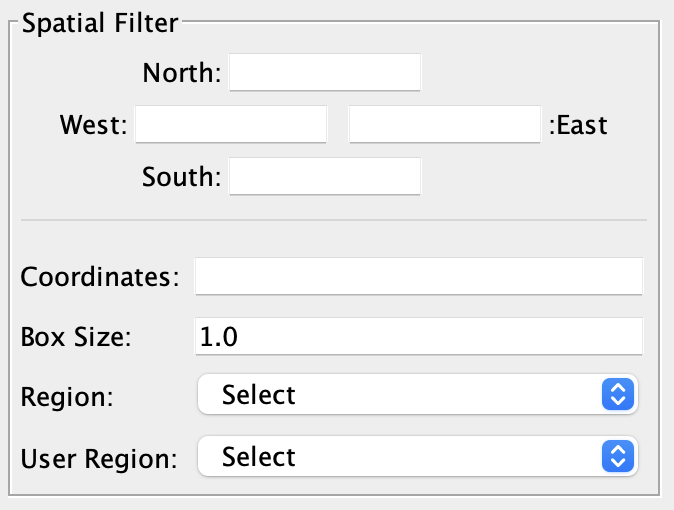
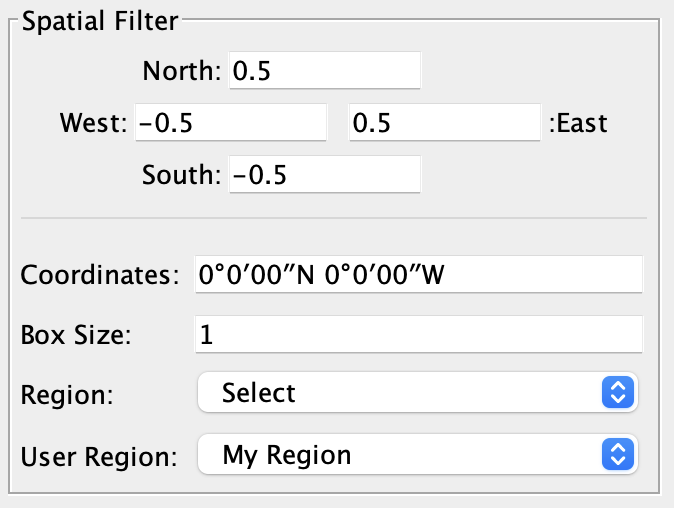
OB_CLOUD Browser: revisions to help page.

diff --git a/seadas-processing/src/main/resources/gov/nasa/gsfc/seadas/processing/docs/EarthdataCloud/EarthdataCloudSearch.html b/seadas-processing/src/main/resources/gov/nasa/gsfc/seadas/processing/docs/EarthdataCloud/EarthdataCloudSearch.html
@@ -35,7 +35,7 @@
 
 
 <p align="center">
-    <img src="images/earthdata_search_01.png" width="450" border="0"><br><br>
+    <img src="images/earthdata_search_01.png" width="550" border="0"><br><br>
     <i>Image 1: OB_CLOUD Data Browser</i>
 </p>
 <br>
@@ -125,27 +125,29 @@
         <li><b>lon x lat</b> - see figure 3 for example.  Note that West is Coordinates lon minus 1 degrees and North is Coordinates lat plus 2 degree</li>
      </ul>
     </li>
-    <li><b>Region</b> These are pre-defined stored locations or regions.  Selecting this will set the "Coordinates" field,
-        which in turn will set the North, South, West, East fields. <br>This non-editable file which contains these is ~/.seadas/auxdata/regions/regions.txt
+    <li><b>Region</b> These are pre-defined stored locations or regions (see figure 2 or 3). Selecting this will set the "Coordinates" field,
+        which in turn will set the North, South, West, East fields. The non-editable file which contains these is ~/.seadas/auxdata/regions/regions.txt
     </li>
-    <li><b>User Region</b> These are user defined locations or regions.  Selecting this will set the "Coordinates" field,
-        which in turn will set the North, South, West, East fields. <br>This editable file which contains these is ~/.seadas/auxdata/regions/user_regions.txt
+    <li><b>User Region*</b> These are user defined locations or regions (see figure 4).  Selecting this will set the "Coordinates" field,
+        which in turn will set the North, South, West, East fields.  *This option is not available by default, but can easily
+        be added by going to the Preferences page (Menu > SeaDAS > Settings > Seadas Toolbox > Earthdata Cloud) and checking "User Region Selector".
+        The editable file which contains these is ~/.seadas/auxdata/regions/user_regions.txt
     </li>
 </ul>
 
 
 <p align="center">
-    <img src="images/earthdata_search_02.png" width="300" border="0"><br><br>
+    <img src="images/earthdata_search_02.png" width="350" border="0"><br><br>
     <i>Image 2: OB_CLOUD Data Browser</i>
 </p>
 
 <p align="center">
-    <img src="images/earthdata_search_03.png" width="300" border="0"><br><br>
+    <img src="images/earthdata_search_03.png" width="350" border="0"><br><br>
     <i>Image 3: OB_CLOUD Data Browser</i>
 </p>
 
 <p align="center">
-    <img src="images/earthdata_search_04.png" width="300" border="0"><br><br>
+    <img src="images/earthdata_search_04.png" width="350" border="0"><br><br>
     <i>Image 4: OB_CLOUD Data Browser</i>
 </p>
 
